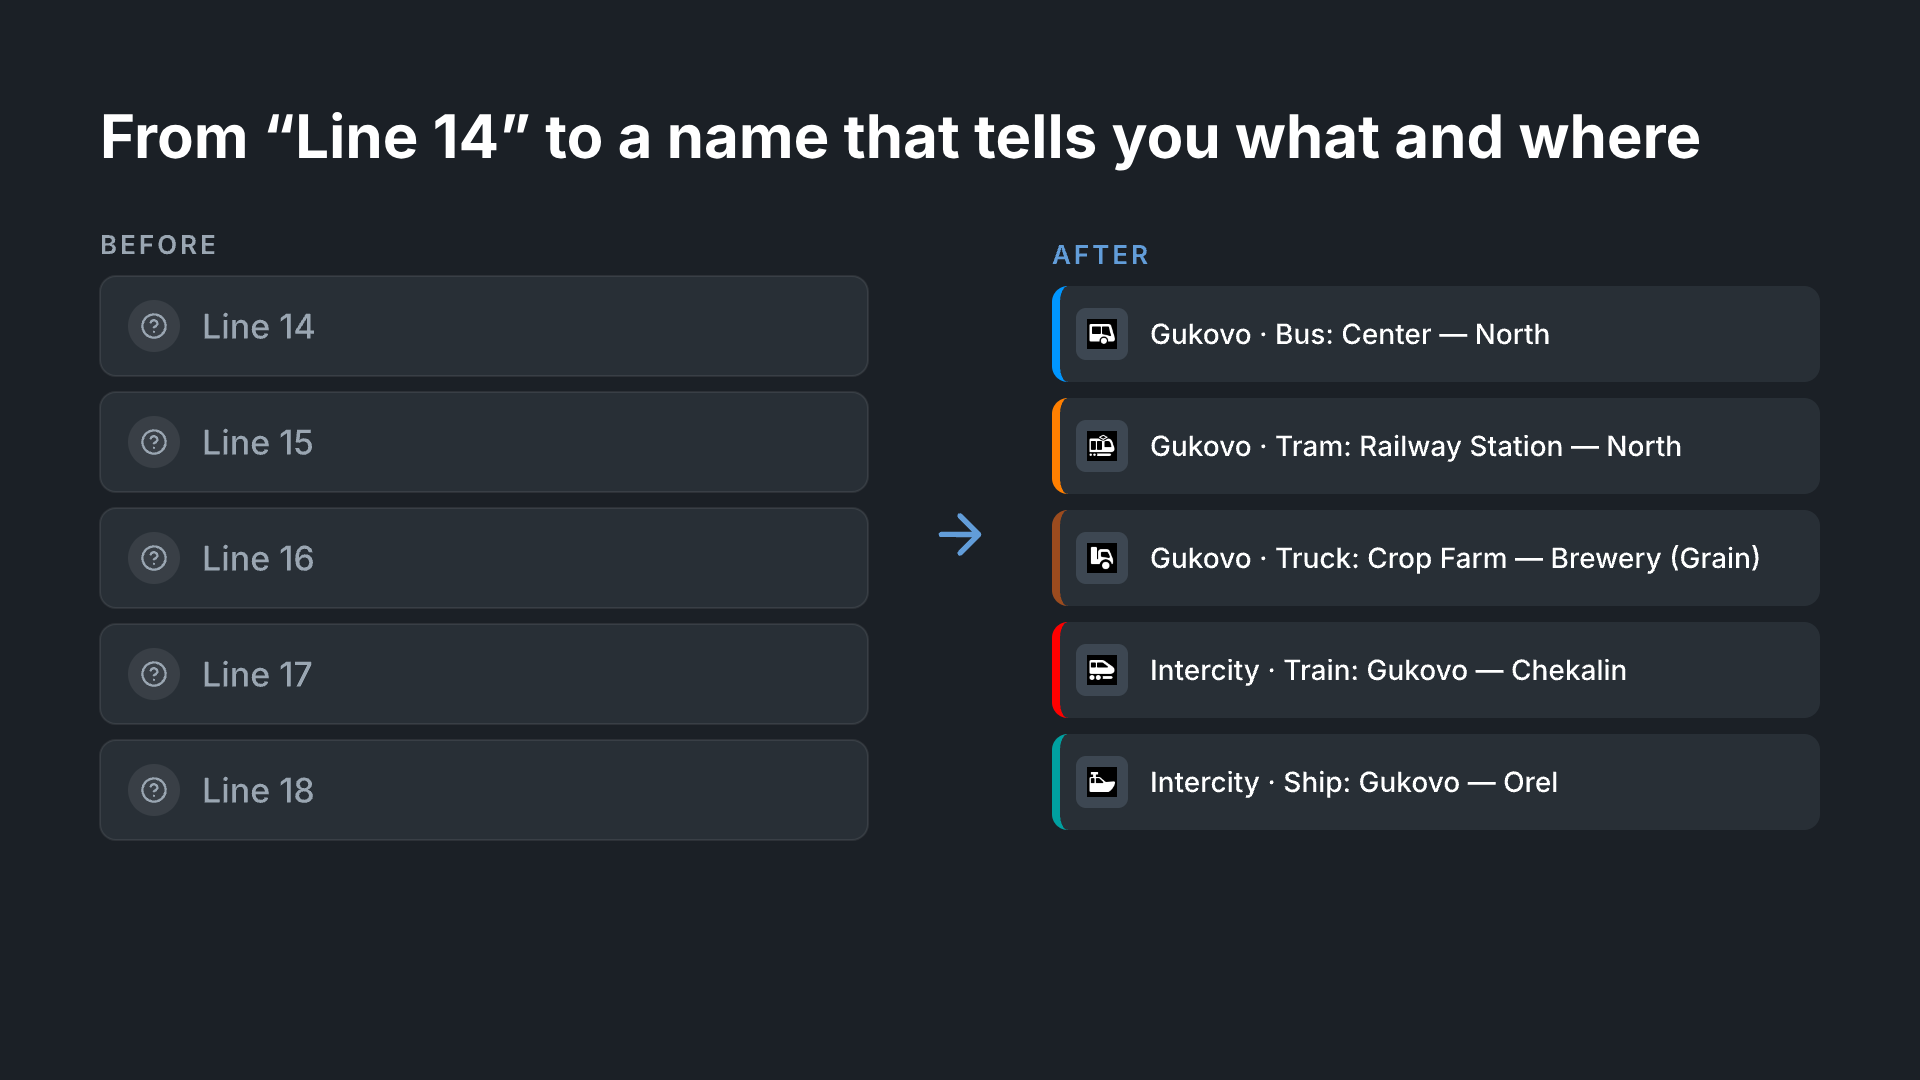
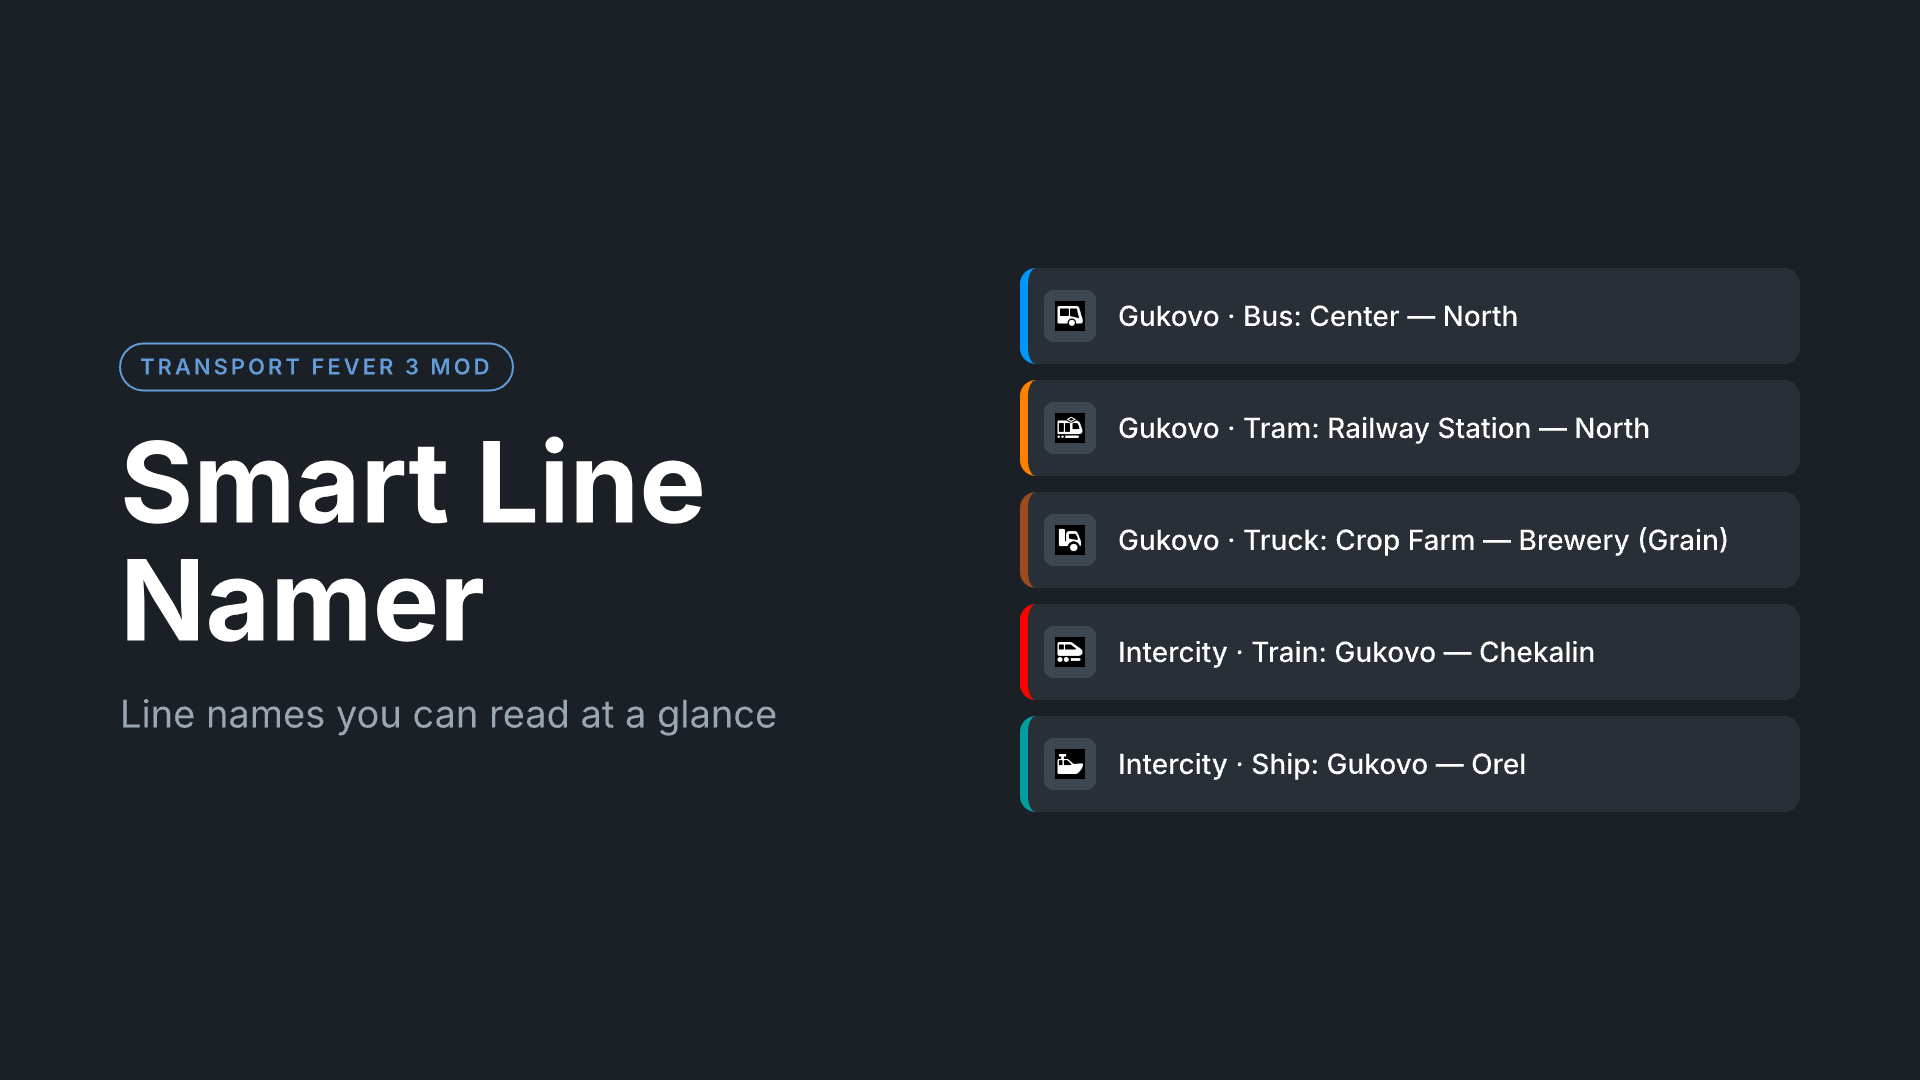
Smart Line Namer v0.2.1: cover in the gallery, shorter description
- Show the cover image as the first gallery picture on mod.io
  (1.png is the cover, 2.png before/after, 3.png schemes).
- Make the gallery cover differ from the logo byte-wise, so mod.io
  does not drop it as a duplicate.
- Remove the Russian paragraph and the 0.1.0 update note from the
  mod.io description.
- Bump revision to 3.

diff --git a/README.md b/README.md
@@ -12,7 +12,7 @@
 
 <p>Tired of <code>Line 14</code>, <code>Line 15</code>, <code>Line 16</code>? Smart Line Namer adds an auto-rename scheme that gives every line a name telling you what it is and where it goes, so you can find the right line in a long list without opening it.</p>
 
-<p align="center"><img src="_metadata/1.png" alt="Before and after" width="720"></p>
+<p align="center"><img src="_metadata/2.png" alt="Before and after" width="720"></p>
 
 <h2>Name format</h2>
 
@@ -35,7 +35,7 @@
   <li>all intercity lines form their own block, grouped by vehicle.</li>
 </ul>
 
-<p align="center"><img src="_metadata/2.png" alt="Local, intercity and freight lines" width="720"></p>
+<p align="center"><img src="_metadata/3.png" alt="Local, intercity and freight lines" width="720"></p>
 
 <h2>How names are built</h2>
 <ul>
@@ -93,7 +93,7 @@
   <li><code>content/gui/line_vehicle_mgmt/auto_rename/scheme_components/</code> — the scheme component that calls the core.</li>
   <li><code>content/gui/line_vehicle_mgmt/auto_rename/schemes/</code> — the scheme shown in the auto-rename menu.</li>
   <li><code>strings.json</code> — English and Russian translations, including short industry names (<code>ind_*</code> keys).</li>
-  <li><code>_metadata/</code> — mod info, cover (<code>0.png</code>) and gallery images (<code>1.png</code>, <code>2.png</code>).</li>
+  <li><code>_metadata/</code> — mod info, logo (<code>0.png</code>) and mod.io gallery (<code>1.png</code> — the cover again, <code>2.png</code>, <code>3.png</code>).</li>
   <li><code>.github/workflows/release.yml</code> — builds the release zip from a tag.</li>
 </ul>
 
